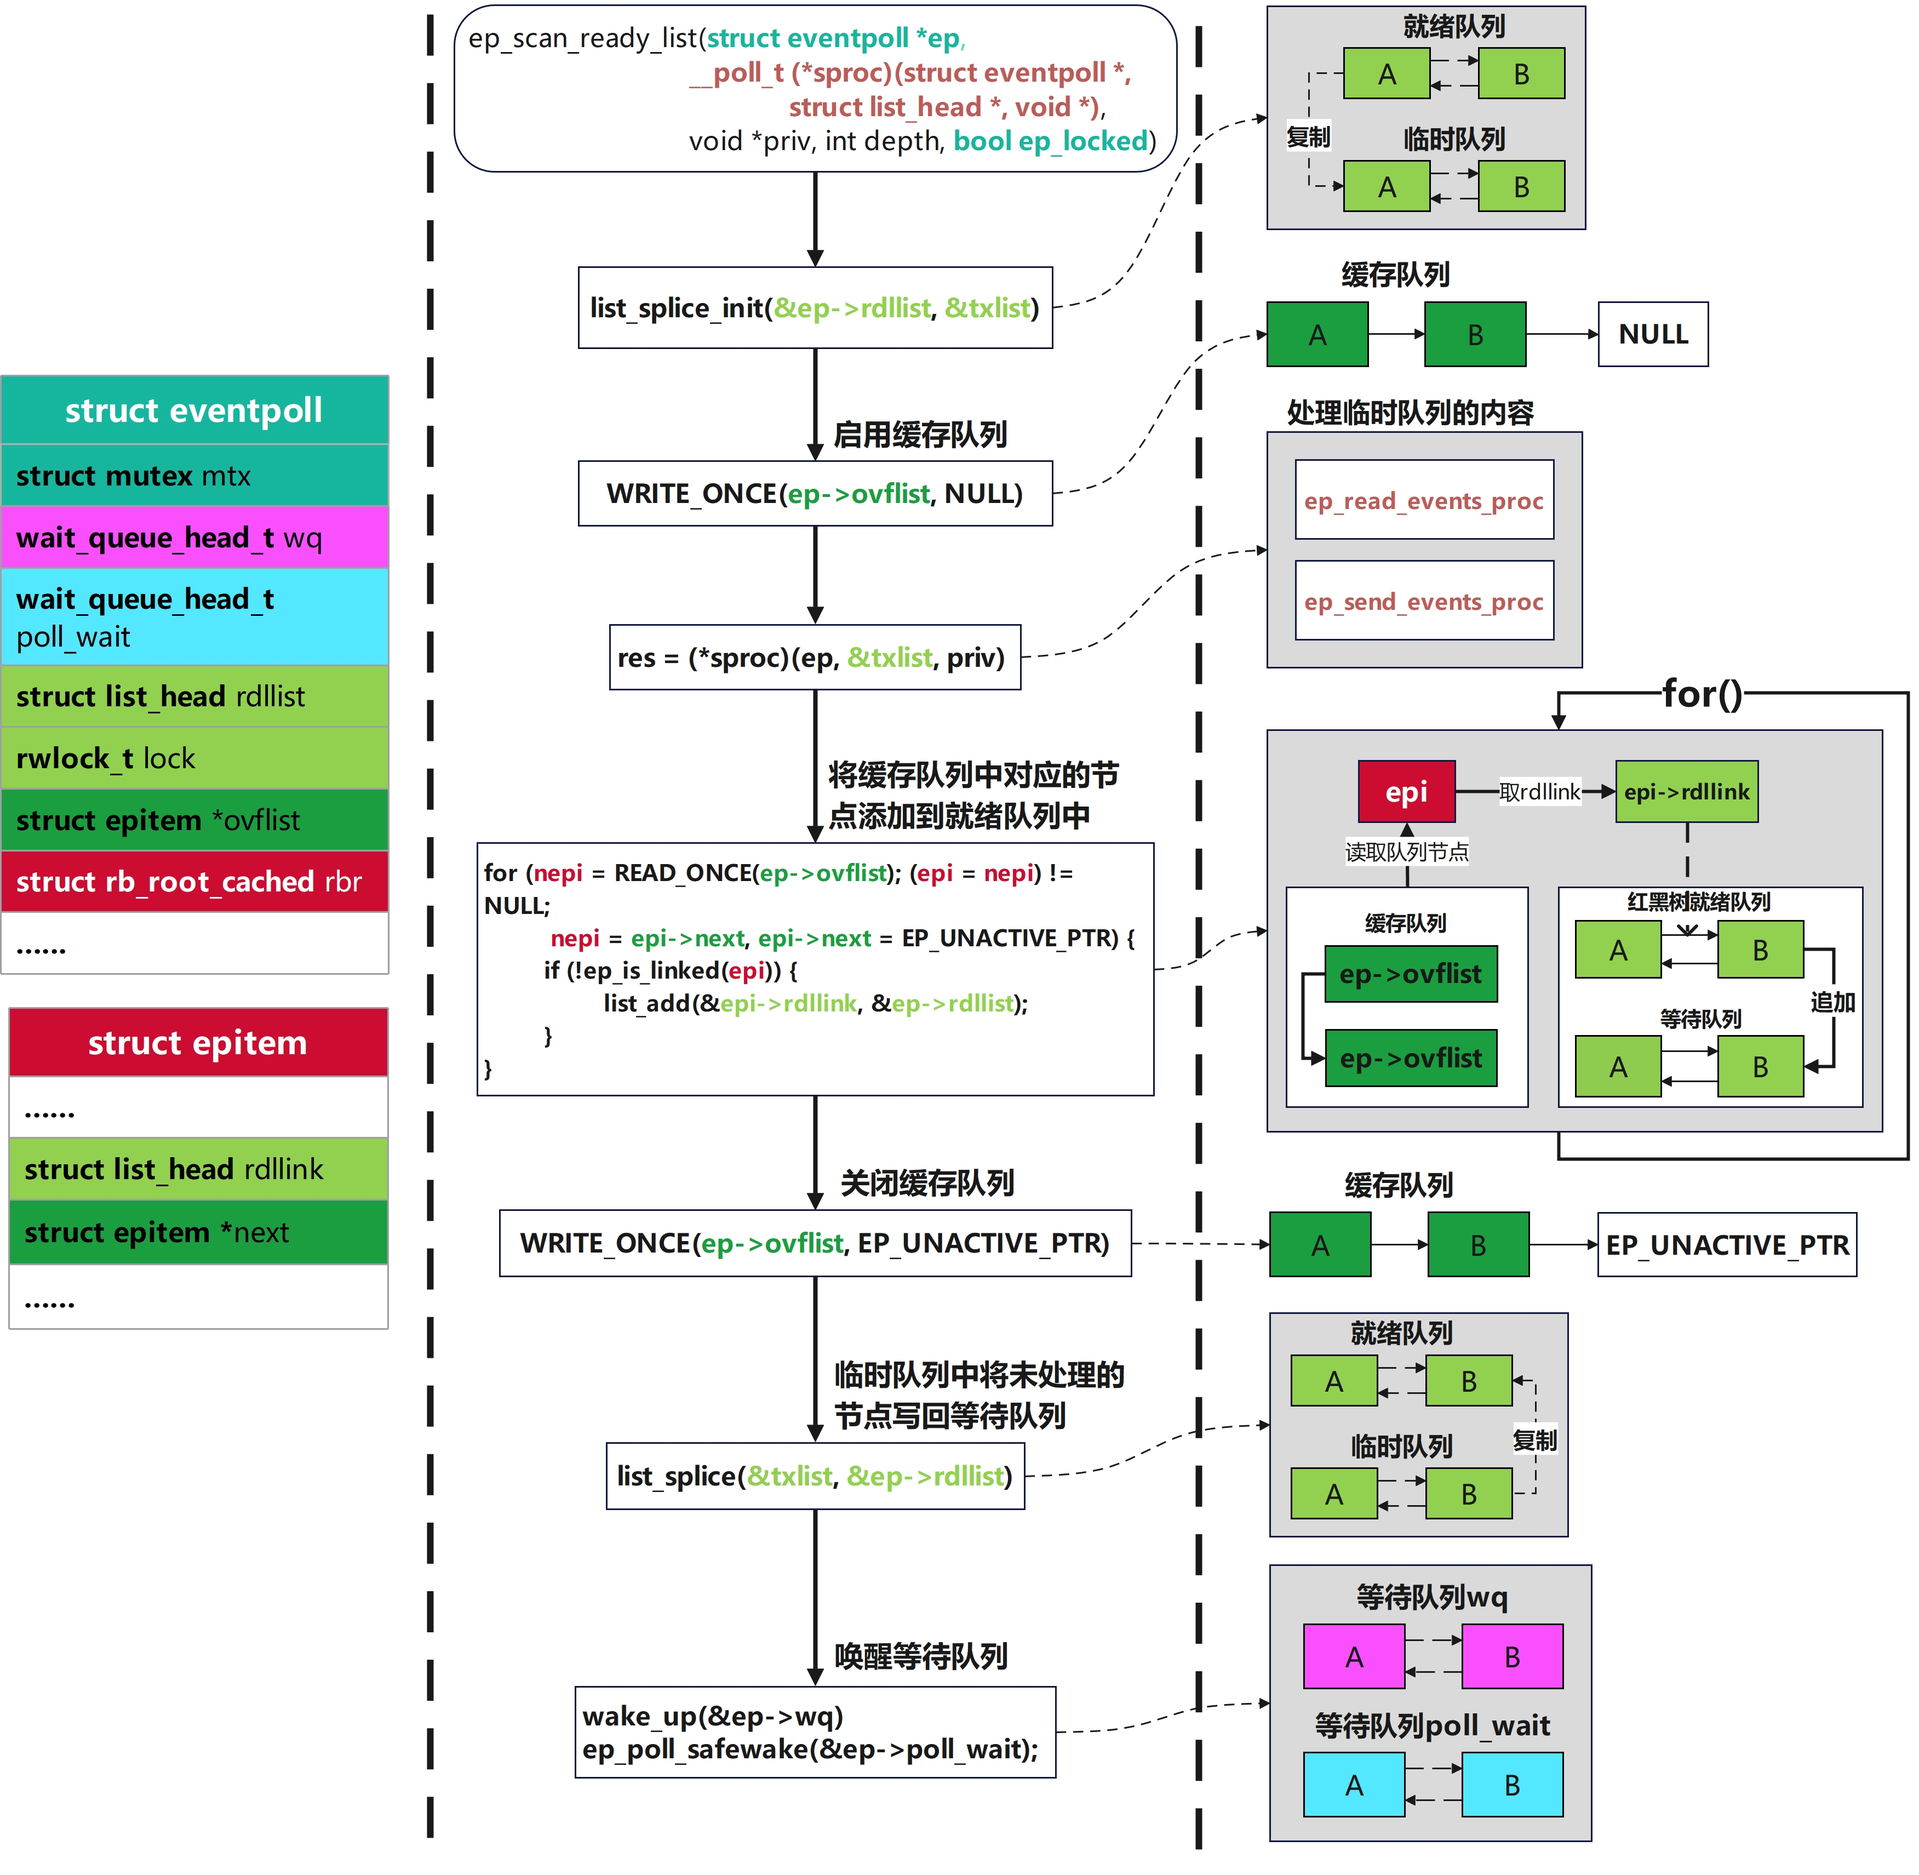
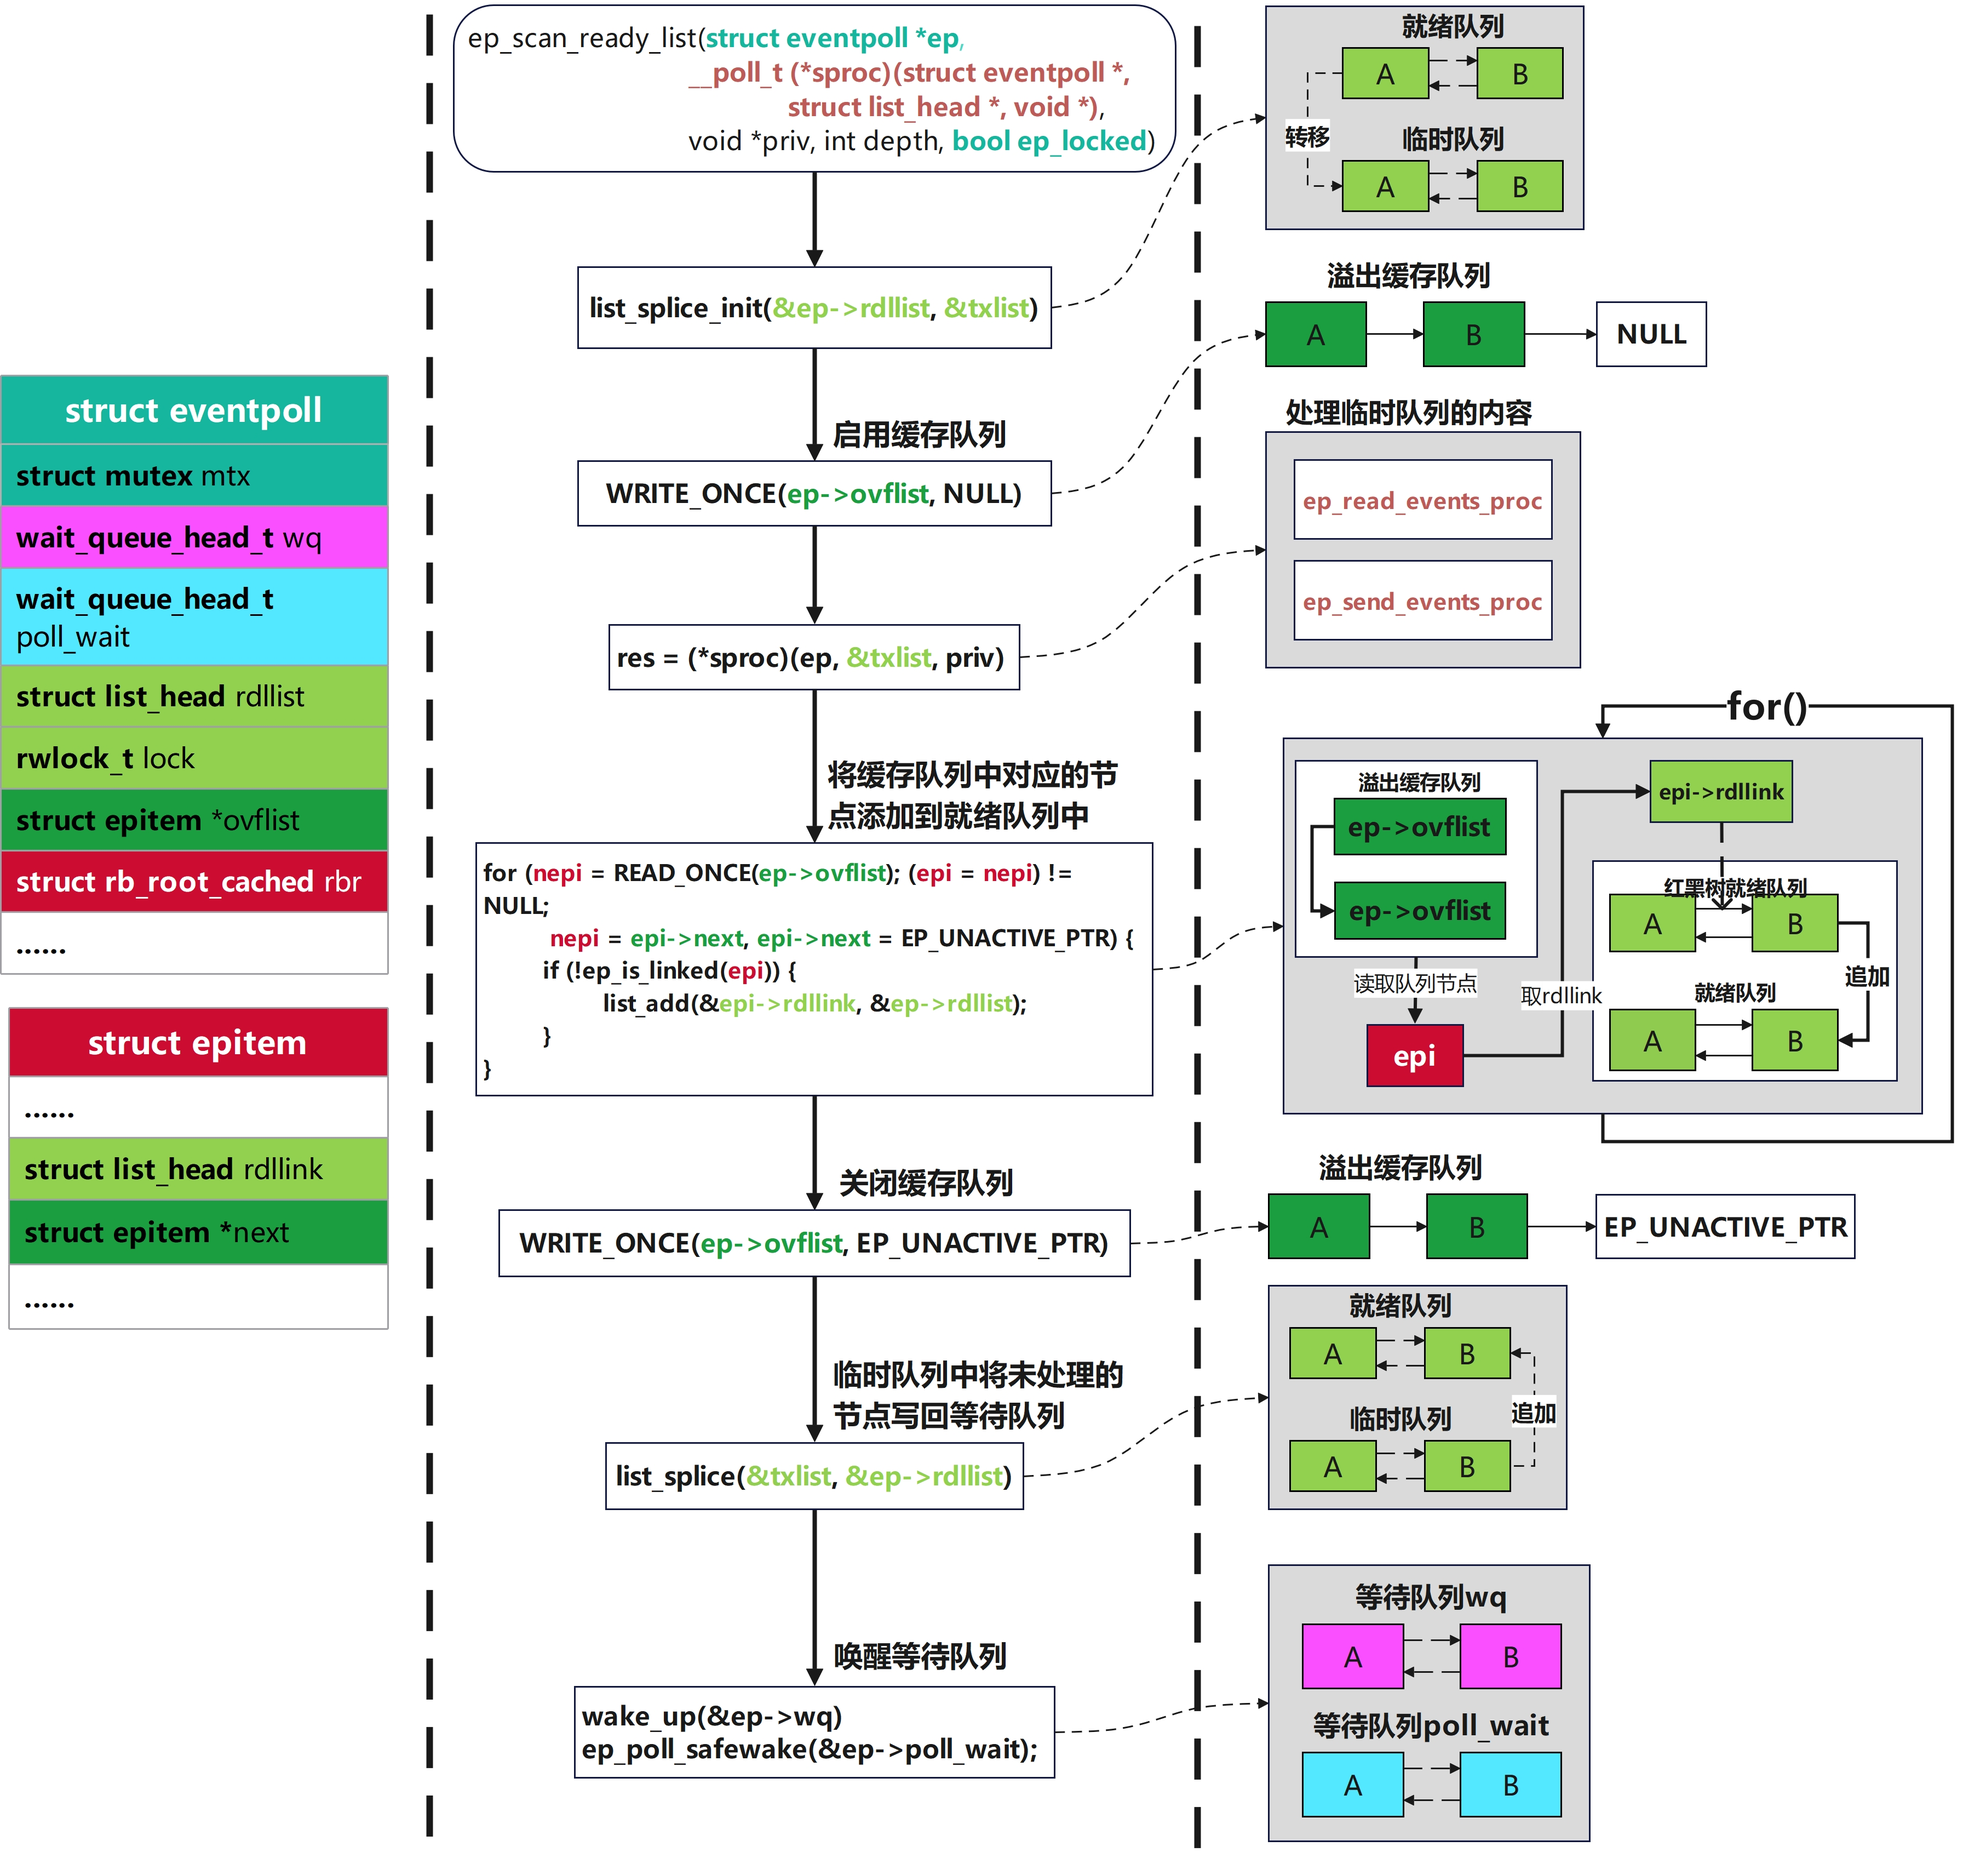
更新

diff --git a/06_Linux/03_IO模型/01_IO多路复用模型/02_epoll原理分析/01_epoll接口原理分析.md b/06_Linux/03_IO模型/01_IO多路复用模型/02_epoll原理分析/01_epoll接口原理分析.md
@@ -1369,7 +1369,9 @@ static __poll_t ep_scan_ready_list(struct eventpoll *ep,
 
 **ep_send_events_proc函数：**`epoll`模块面向`VFS`的`poll`方法
 
-遍历缓存队列将缓存的值放回就行队列中，根据检查结果更新`rdllist`链表，然后唤醒等待链表
+**关于对rdllist就绪队列的处理：**
+
+创建一个临时队列，就绪队列的值转移到临时队列中。交给`ep_read_events_proc`或者`ep_send_events_proc`去处理，然后把在这期间添加到溢出缓存队列中的节点，重新放回就绪队列中。最后将处理完后将没有通知的节点重新放回就绪队列中
 
 <img src="./img/ep_scan_ready_list.jpg" alt="ep_scan_ready_list" />
 
